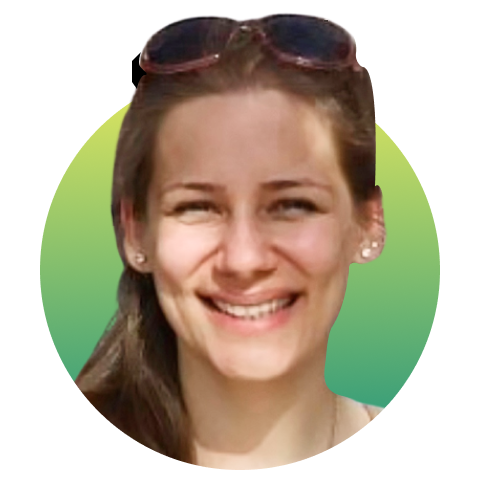
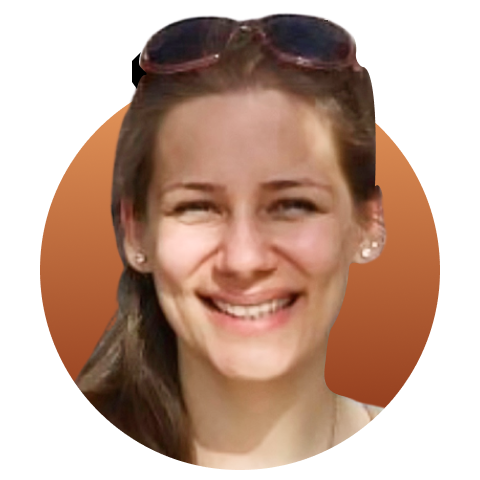
- adding praise image and section for last testimonial fixed mobile cards for testimonials page replaced helga dp

Changed region(s): [[0.6562, 0.25, 0.9375, 0.875], [0.0625, 0.2188, 0.2812, 0.7812]]

diff --git a/src/app/components/testimonials/testimonials-page-cards-all/testimonials-page-cards-all.component.html b/src/app/components/testimonials/testimonials-page-cards-all/testimonials-page-cards-all.component.html
@@ -223,6 +223,10 @@
                 </div>
             </div>
         </div>
+        <!-- Praise arrow -->
+        <div class="praise-arrow col-12">
+            <img src="../assets/testimonials/praise.png" style="width: 100%;">
+        </div>
     </div>
     <!-- Right column -->
     <div class="col-6 padding-left d-none d-md-block">
@@ -518,6 +522,188 @@
                 </div>
             </div>
         </div>
+        <!-- Akshar testimonial -->
+        <div class="testimonials-page-card-container-padding col-12">
+            <div class="testimonials-page-card-container-parent">
+                <div class="testimonials-page-card-container-cards">
+                    <div class="testimonials-page-card-container-cards-title">
+                        Believes in community growth.
+                    </div>
+                    <div class="testimonials-page-card-container-cards-content">
+                        <p>
+                            We have been working at Wingify for some quarters and collaborated on a couple of design projects. He had been the spearhead of this collab.
+                        </p>
+                        <p>
+                            The one skill I could point out about Sankalp would be: believing in community growth. Sankalp shares every useful tool/resource he finds online. Open enough to have a debate over the latest design trends, or may it be philosophies.
+                        </p>
+                        <p>
+                            "Fun, enthusiastic, and high on design trends" are the words that first come to my mind when I'd have to talk about Sankalp.
+                        </p>
+                    </div>
+                    <div class="d-flex testimonials-page-card-container-cards-author-info align-items-center">
+                        <div class="">
+                            <img src="../assets/testimonials/dp-Akshar.png" class="testimonials-page-card-container-cards-author-info-image">
+                        </div>
+                        <div>
+                            <div class="testimonials-page-card-container-cards-author-info-name">
+                                Akshar Patel
+                            </div>
+                            <div class="testimonials-page-card-container-cards-author-info-role">
+                                Design Manager
+                            </div>
+                            <div class="testimonials-page-card-container-cards-author-info-company">
+                                @Gojek.com
+                            </div>
+                        </div>
+                    </div>
+                </div>
+            </div>
+        </div>
+        <!-- Anca testimonial -->
+        <div class="testimonials-page-card-container-padding col-12">
+            <div class="testimonials-page-card-container-parent">
+                <div class="testimonials-page-card-container-cards">
+                    <div class="testimonials-page-card-container-cards-title">
+                        A creative & forward-thinking designer.
+                    </div>
+                    <div class="testimonials-page-card-container-cards-content">
+                        <p>
+                            I worked with Sankalp for 4 years at SellerCrowd. As a QA Lead, my job was to define requirements based on his designs and I always appreciated that his design handoff was always clear, organized. He always provided ample context, diagrams, or demos for the team for a smooth dev-handoff.
+                        </p>
+                        <p>
+                            Sankalp is a creative and forward-thinking designer. He’s always eager to try new tools & processes, as he wants to deeply understand the customer problems and come up with modern and efficient solutions.
+                        </p>
+                        <p>
+                            Being the only designer in the team, Sankalp's ability to juggle multiple features at the same time had a big contribution to the productivity of our team. In addition to his experience, Sankalp is a great teammate, and he will make sure that everyone leave meetings with a smile. He would be an asset to any team.
+                        </p>
+                    </div>
+                    <div class="d-flex testimonials-page-card-container-cards-author-info align-items-center">
+                        <div class="">
+                            <img src="../assets/testimonials/dp-Anca.png" class="testimonials-page-card-container-cards-author-info-image">
+                        </div>
+                        <div>
+                            <div class="testimonials-page-card-container-cards-author-info-name">
+                                Anca Oaida
+                            </div>
+                            <div class="testimonials-page-card-container-cards-author-info-role">
+                                QA Lead
+                            </div>
+                            <div class="testimonials-page-card-container-cards-author-info-company">
+                                @SellerCrowd
+                            </div>
+                        </div>
+                    </div>
+                </div>
+            </div>
+        </div>
+        <!-- Varun testimonial -->
+        <div class="testimonials-page-card-container-padding col-12">
+            <div class="testimonials-page-card-container-parent">
+                <div class="testimonials-page-card-container-cards">
+                    <div class="testimonials-page-card-container-cards-title">
+                        Actively seeks feedback.
+                    </div>
+                    <div class="testimonials-page-card-container-cards-content">
+                        <p>
+                            Sankalp is a passionate designer who has done some great work while at Wingify.
+                        </p>
+                        <p>
+                            Having worked with him on & off for over 3 years, I can gladly attest that he is deeply motivated to find the most fitting solution to any design challenge.
+                        </p>
+                        <p>
+                            He is iterative in his process and actively seeks feedback. Sankalp will be a valued addition to any team that he chooses to join.
+                        </p>
+                    </div>
+                    <div class="d-flex testimonials-page-card-container-cards-author-info align-items-center">
+                        <div class="">
+                            <img src="../assets/testimonials/dp-Varun.png" class="testimonials-page-card-container-cards-author-info-image">
+                        </div>
+                        <div>
+                            <div class="testimonials-page-card-container-cards-author-info-name">
+                                Varun Mohapatra
+                            </div>
+                            <div class="testimonials-page-card-container-cards-author-info-role">
+                                Group Design Manager
+                            </div>
+                            <div class="testimonials-page-card-container-cards-author-info-company">
+                                @Wingify.com
+                            </div>
+                        </div>
+                    </div>
+                </div>
+            </div>
+        </div>
+        <!-- Helga testimonial -->
+        <div class="testimonials-page-card-container-padding col-12">
+            <div class="testimonials-page-card-container-parent">
+                <div class="testimonials-page-card-container-cards">
+                    <div class="testimonials-page-card-container-cards-title">
+                        Great team spirit & encourages feedback.
+                    </div>
+                    <div class="testimonials-page-card-container-cards-content">
+                        <p>
+                            I had a great time collaborating with Sankalp during my 2 years as a QA engineer at SellerCrowd. From the very beginning I noticed how organised he was. He always provided clear design specs with good use case coverage, which benefited our QA tasks.
+                        </p>
+                        <p>
+                            I was also impressed by how keen he was on trying new tools and how quickly he mastered them - always improving the design process.He shows great team spirit by sharing knowledge and encouraging team members to share feedback on designs.
+                        </p>
+                        <p>
+                            Besides all this, he has a positive attitude, is sociable, and manages to engage team members in work or team building activities. He would be a great addition to any team.
+                        </p>
+                    </div>
+                    <div class="d-flex testimonials-page-card-container-cards-author-info align-items-center">
+                        <div class="">
+                            <img src="../assets/testimonials/dp-Helga.png" class="testimonials-page-card-container-cards-author-info-image">
+                        </div>
+                        <div>
+                            <div class="testimonials-page-card-container-cards-author-info-name">
+                                Helga Paulger
+                            </div>
+                            <div class="testimonials-page-card-container-cards-author-info-role">
+                                QA Engineer
+                            </div>
+                            <div class="testimonials-page-card-container-cards-author-info-company">
+                                @SellerCrowd
+                            </div>
+                        </div>
+                    </div>
+                </div>
+            </div>
+        </div>
+        <!-- Valerii testimonial -->
+        <div class="testimonials-page-card-container-padding col-12">
+            <div class="testimonials-page-card-container-parent">
+                <div class="testimonials-page-card-container-cards">
+                    <div class="testimonials-page-card-container-cards-title">
+                        A true team player.
+                    </div>
+                    <div class="testimonials-page-card-container-cards-content">
+                        <p>
+                            I worked with Sankalp as a software engineer and his designs and prototypes were always clear, perfectly structured, and ready for implementation - helping devs. execute front-end without any design blocker.
+                        </p>
+                        <p>
+                            He has always been to elaborate and give feedback. He’s one of the most proactive and passionate people I ever met in our industry, a true team player, and a positive atmosphere creator.
+                        </p>
+                    </div>
+                    <div class="d-flex testimonials-page-card-container-cards-author-info align-items-center">
+                        <div class="">
+                            <img src="../assets/testimonials/dp-Valerii.png" class="testimonials-page-card-container-cards-author-info-image">
+                        </div>
+                        <div>
+                            <div class="testimonials-page-card-container-cards-author-info-name">
+                                Valerii Kovalchuk
+                            </div>
+                            <div class="testimonials-page-card-container-cards-author-info-role">
+                                Full-stack developer
+                            </div>
+                            <div class="testimonials-page-card-container-cards-author-info-company">
+                                @SellerCrowd
+                            </div>
+                        </div>
+                    </div>
+                </div>
+            </div>
+        </div>
         <!-- Pooja testimonial -->
         <div class="testimonials-page-card-container-padding col-12">
             <div class="testimonials-page-card-container-parent">
@@ -580,80 +766,6 @@
                             </div>
                             <div class="testimonials-page-card-container-cards-author-info-company">
                                 @Spaced Ventures
-                            </div>
-                        </div>
-                    </div>
-                </div>
-            </div>
-        </div>
-        <!-- Anca testimonial -->
-        <div class="testimonials-page-card-container-padding col-12">
-            <div class="testimonials-page-card-container-parent">
-                <div class="testimonials-page-card-container-cards">
-                    <div class="testimonials-page-card-container-cards-title">
-                        A creative & forward-thinking designer.
-                    </div>
-                    <div class="testimonials-page-card-container-cards-content">
-                        <p>
-                            I worked with Sankalp for 4 years at SellerCrowd. As a QA Lead, my job was to define requirements based on his designs and I always appreciated that his design handoff was always clear, organized. He always provided ample context, diagrams, or demos for the team for a smooth dev-handoff.
-                        </p>
-                        <p>
-                            Sankalp is a creative and forward-thinking designer. He’s always eager to try new tools & processes, as he wants to deeply understand the customer problems and come up with modern and efficient solutions.
-                        </p>
-                        <p>
-                            Being the only designer in the team, Sankalp's ability to juggle multiple features at the same time had a big contribution to the productivity of our team. In addition to his experience, Sankalp is a great teammate, and he will make sure that everyone leave meetings with a smile. He would be an asset to any team.
-                        </p>
-                    </div>
-                    <div class="d-flex testimonials-page-card-container-cards-author-info align-items-center">
-                        <div class="">
-                            <img src="../assets/testimonials/dp-Anca.png" class="testimonials-page-card-container-cards-author-info-image">
-                        </div>
-                        <div>
-                            <div class="testimonials-page-card-container-cards-author-info-name">
-                                Anca Oaida
-                            </div>
-                            <div class="testimonials-page-card-container-cards-author-info-role">
-                                QA Lead
-                            </div>
-                            <div class="testimonials-page-card-container-cards-author-info-company">
-                                @SellerCrowd
-                            </div>
-                        </div>
-                    </div>
-                </div>
-            </div>
-        </div>
-        <!-- Akshar testimonial -->
-        <div class="testimonials-page-card-container-padding col-12">
-            <div class="testimonials-page-card-container-parent">
-                <div class="testimonials-page-card-container-cards">
-                    <div class="testimonials-page-card-container-cards-title">
-                        Believes in community growth.
-                    </div>
-                    <div class="testimonials-page-card-container-cards-content">
-                        <p>
-                            We have been working at Wingify for some quarters and collaborated on a couple of design projects. He had been the spearhead of this collab.
-                        </p>
-                        <p>
-                            The one skill I could point out about Sankalp would be: believing in community growth. Sankalp shares every useful tool/resource he finds online. Open enough to have a debate over the latest design trends, or may it be philosophies.
-                        </p>
-                        <p>
-                            "Fun, enthusiastic, and high on design trends" are the words that first come to my mind when I'd have to talk about Sankalp.
-                        </p>
-                    </div>
-                    <div class="d-flex testimonials-page-card-container-cards-author-info align-items-center">
-                        <div class="">
-                            <img src="../assets/testimonials/dp-Akshar.png" class="testimonials-page-card-container-cards-author-info-image">
-                        </div>
-                        <div>
-                            <div class="testimonials-page-card-container-cards-author-info-name">
-                                Akshar Patel
-                            </div>
-                            <div class="testimonials-page-card-container-cards-author-info-role">
-                                Design Manager
-                            </div>
-                            <div class="testimonials-page-card-container-cards-author-info-company">
-                                @Gojek.com
                             </div>
                         </div>
                     </div>
@@ -728,6 +840,114 @@
                             </div>
                             <div class="testimonials-page-card-container-cards-author-info-company">
                                 @SellerCrowd
+                            </div>
+                        </div>
+                    </div>
+                </div>
+            </div>
+        </div>
+        <!-- Marcin testimonial -->
+        <div class="testimonials-page-card-container-padding col-12">
+            <div class="testimonials-page-card-container-parent">
+                <div class="testimonials-page-card-container-cards">
+                    <div class="testimonials-page-card-container-cards-title">
+                        A people person who cheers up every meeting.
+                    </div>
+                    <div class="testimonials-page-card-container-cards-content">
+                        <p>
+                            I worked with Sankalp at SellerCrowd for nearly 3 intensive years, when we were all pushing towards release of new product version.
+                        </p>
+                        <p>
+                            During that time Sankalp has done great work in a timely manner. He’s a driven, ambitious individual with an infectious enthusiasm for any project. Hardworking, intelligent and helpful.
+                        </p>
+                        <p>
+                            On top of that he’s very much a people person and cheers up every meeting - that’s the guy you want to have on your team.
+                        </p>
+                    </div>
+                    <div class="d-flex testimonials-page-card-container-cards-author-info align-items-center">
+                        <div class="">
+                            <img src="../assets/testimonials/dp-Marcin.png" class="testimonials-page-card-container-cards-author-info-image">
+                        </div>
+                        <div>
+                            <div class="testimonials-page-card-container-cards-author-info-name">
+                                Marcin Wtorkowski
+                            </div>
+                            <div class="testimonials-page-card-container-cards-author-info-role">
+                                CTO
+                            </div>
+                            <div class="testimonials-page-card-container-cards-author-info-company">
+                                @SellerCrowd
+                            </div>
+                        </div>
+                    </div>
+                </div>
+            </div>
+        </div>
+        <!-- Fabiano testimonial -->
+        <div class="testimonials-page-card-container-padding col-12">
+            <div class="testimonials-page-card-container-parent">
+                <div class="testimonials-page-card-container-cards">
+                    <div class="testimonials-page-card-container-cards-title">
+                        An amazing designer who’s always eager to help and collaborate.
+                    </div>
+                    <div class="testimonials-page-card-container-cards-content">
+                        <p>
+                            While working together, Sankalp designed a whole application from scratch, taking business requirements, creating beautiful pages, and components - always with the user experience in mind.
+                        </p>
+                        <p>
+                            He is always organized in preset of his ideas and projects. The thing that most impressed me was his ability to collect user feedback using a variety of tools and techniques. This added so much for the business and helped us actually understand our users, which we never did before.
+                        </p>
+                        <p>
+                            Sankalp is an amazing designer who’s always eager to help and collaborate, no matter if it’s in his area of expertise or not. I wouldn't think twice to go with Sankalp if I ever need a designer for my team.
+                        </p>
+                    </div>
+                    <div class="d-flex testimonials-page-card-container-cards-author-info align-items-center">
+                        <div class="">
+                            <img src="../assets/testimonials/dp-Fabiano.png" class="testimonials-page-card-container-cards-author-info-image">
+                        </div>
+                        <div>
+                            <div class="testimonials-page-card-container-cards-author-info-name">
+                                Fabiano Moraes
+                            </div>
+                            <div class="testimonials-page-card-container-cards-author-info-role">
+                                Full-stack developer
+                            </div>
+                            <div class="testimonials-page-card-container-cards-author-info-company">
+                                @SellerCrowd
+                            </div>
+                        </div>
+                    </div>
+                </div>
+            </div>
+        </div>
+        <!-- Mother testimonial -->
+        <div class="testimonials-page-card-container-padding col-12">
+            <div class="testimonials-page-card-container-parent">
+                <div class="testimonials-page-card-container-cards">
+                    <div class="testimonials-page-card-container-cards-title">
+                        Best. Human. Ever.
+                    </div>
+                    <div class="testimonials-page-card-container-cards-content">
+                        <p>
+                            Sankalp is THE best. He has a golden heart. He’s very kind and humble. He’s very very very funny!
+                        </p>
+                        <p>
+                            Anyone who’s looking to hire Sankalp, should do it and pay him top $$$s!
+                        </p>
+                    </div>
+                    <div class="d-flex testimonials-page-card-container-cards-author-info align-items-center">
+                        <div class="">
+                            <img src="../assets/testimonials/dp-Mother.png" class="testimonials-page-card-container-cards-author-info-image">
+                        </div>
+                        <div>
+                            <div class="testimonials-page-card-container-cards-author-info-name">
+                                Swapna Sinha
+                            </div>
+                            <div class="testimonials-page-card-container-cards-author-info-role">
+                                Mother
+                            </div>
+                            <div class="testimonials-page-card-container-cards-author-info-company">
+                                @Sinha family
                             </div>
                         </div>
                     </div>
